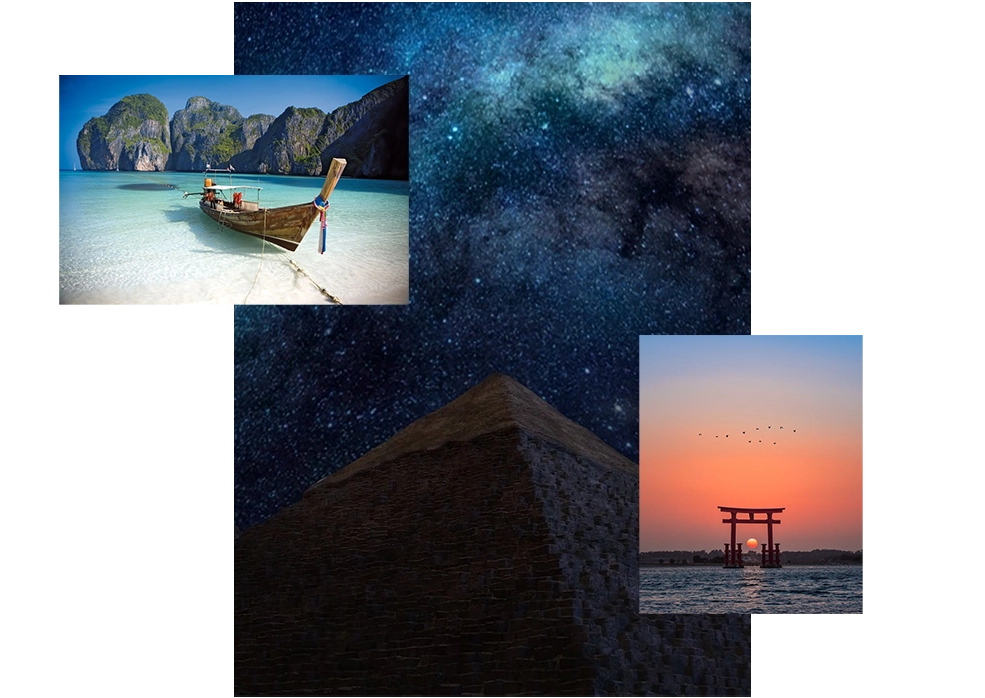
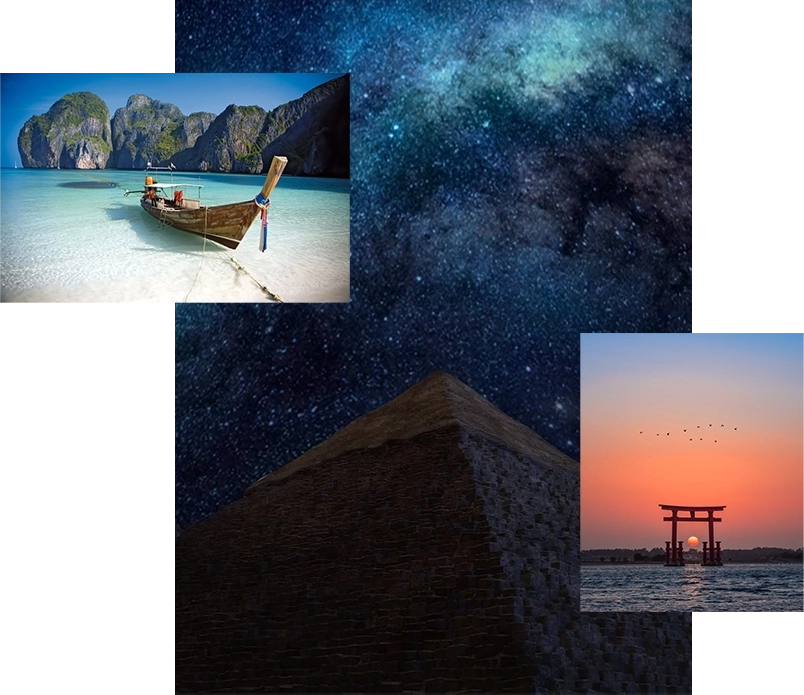
working

diff --git a/style.css b/style.css
@@ -184,32 +184,42 @@ header {
 
 .block2{
   width: 100%;
-  height: 40rem;
+  height: 35rem;
   background-color: var(--primary-color);
   display: flex;
 }
 
-.block2__text, .block2__img{
+.block2__text {
   flex: 50%;
 
 }
+.block2__img{
+  flex: 50%;
+}
 .block2__text{
-  
-  padding: 5rem;
+  height: auto;
+  padding-left: 5rem;
   display: flex;
   flex-direction: column;
   gap: 3rem;
   justify-content: center;
   
-  
+
 }
 .block2__text h2{
   font-size: 3rem;
   font-weight: 600;
   color: var(--secondary-color);
   border-bottom: var(--fifth-color) 4px solid;
-  width: 25rem;
+  width: auto;
   line-height: 1;
+  
+}
+
+.block2__text h2::after{
+  content: "";
+  left: 0;
+  top: 0;
   
 }
 
@@ -228,7 +238,7 @@ header {
 
 
 .block2__img img{
-  width: 80%;
+  width: 38rem;
   filter: drop-shadow(4px 4px 13px #000000);
 
   
@@ -276,6 +286,14 @@ header {
     padding: 0 1.5rem;
     height: 3rem;
     border-radius: 30px;
+  }
+  /*BLOCK2*/
+  .block2__img img{
+    width: 23rem;
+
+  }
+  .block2__text h2{
+    font-size: 2.5rem;
   }
 }
 
@@ -374,8 +392,20 @@ header {
   .block1 button i{
     font-size: 2rem;
   }
-}
+  
+  /*BLOCK2*/
 
+  .block2{
+    flex-direction: column;
+    height: auto;
+    margin-bottom: 3rem;
+
+  }
+
+  .block2__text{
+    padding:5rem;
+  }
+}
 @media (width < 500px) {
   /*HEADER*/
   .box1 h1 {
@@ -397,6 +427,9 @@ header {
   .block1 select{
     font-size: 0.9rem;
   }
+  .block2__text{
+    padding:2rem;
+  }
 }
 
 @media (width < 400px) {
@@ -404,4 +437,11 @@ header {
   .box1 h1 {
     font-size: 1.4rem;
   }
+  /*block2*/
+  .block2__img img{
+    width: 20rem;
+    
+  }
 }
+
+

diff --git a/index.html b/index.html
@@ -80,7 +80,7 @@
           </div>
           <div class="block2__img">
             <picture>
-              <img src="/images/background/background-block2.png" alt="ilustrative image">
+              <img src="/images/background/background-block2.webp" alt="ilustrative image">
             </picture>
           </div>
         </section>
